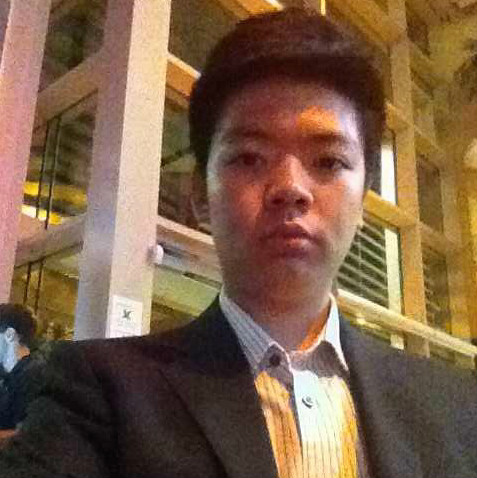
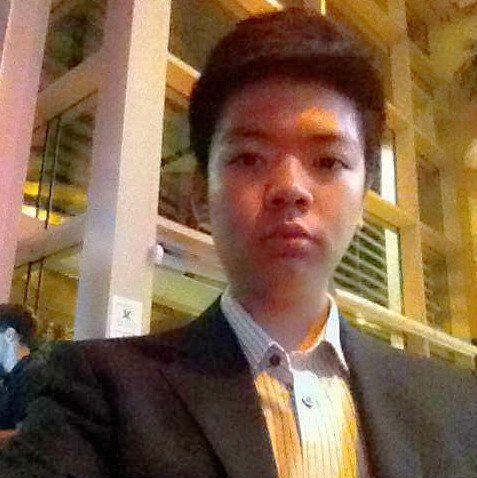
modified hemingxuan.jpg, added steal.py, added ADMIN_LIST in user.rb

diff --git a/fetchDataBundle/steal.py b/fetchDataBundle/steal.py
@@ -1,0 +1,81 @@
+from selenium import webdriver
+from selenium.webdriver.common.keys import Keys
+import time
+import sys,re,os
+import urllib2
+from bs4 import BeautifulSoup
+
+def fetchBook (school, fetch_wait_time = 1):
+  driver = webdriver.Chrome('/Users/a67/bin/chromedriver')
+  driver.get("https://www.postyourbook.com/" + str(school))
+
+  while (True):
+    #Wait for the data to be fetched and displayed
+    time.sleep(fetch_wait_time)
+
+    # Get booknames
+    booknames = driver.find_elements_by_xpath("//h3/a[@class='postingitem']")
+    for bookname in booknames:
+      source_code = bookname.get_attribute("innerHTML")
+      # print source_code
+
+    # Get authors
+    authors = driver.find_elements_by_class_name("p-authors")
+    for author in authors:
+      source_code = author.get_attribute("innerHTML").strip().split(':&nbsp;')[1]
+      # print source_code
+
+    # Get ISBN10 and ISBN13
+    isbns = driver.find_elements_by_xpath("//div[@class='post-desc']/span")
+    ISBN10_arr = []
+    ISBN13_arr = []
+    for isbn in isbns:
+      source_code = isbn.get_attribute("innerHTML").strip().split(":&nbsp;")
+      if source_code[0] == str("ISBN10"):
+        ISBN10_arr.append(source_code[1])
+      elif source_code[0] == str("ISBN13"):
+        ISBN13_arr.append(source_code[1])
+      else:
+        print "ISBN fetch error"
+    # for i in ISBN10_arr:
+    #   print i
+    # for i in ISBN13_arr:
+    #   print i
+
+    # Get number of sellers
+    seller_numbers = driver.find_elements_by_xpath("//span[@class='owner']/span")
+    for seller_number in seller_numbers:
+      source_code = seller_number.get_attribute("innerHTML").strip().split("&nbsp")[0]
+      #print source_code
+
+    # Get most recent date of posting
+    most_recent_dates = driver.find_elemenqts_by_xpath("//span[@class='clock']/span")
+    for most_recent_date in most_recent_dates:
+      source_code = most_recent_date.get_attribute("innerHTML").strip()
+      #print source_code
+
+    # Get student's lowest posting price
+    student_lowest_prices = driver.find_elements_by_class_name("post-price")
+    for student_lowest_price in student_lowest_prices:
+      source_code = student_lowest_price.get_attribute("innerHTML").split("from")[1].strip()
+      print source_code
+
+    # 
+
+    # Wait for the "next page" button to show up. Solves ElementNotVisibleException
+    time.sleep(fetch_wait_time)
+
+    # Click on the "next page" button
+    driver.find_element_by_xpath("//div[@class='tabcontrol postingouter']/div/div/a[@class='rightalign nbtn']").click()
+    
+
+if __name__=='__main__':
+  fetchBook("ucsd", 1)
+# 1. User specify object_url
+# 2. Program goes to url
+# 3. Program fetches the first book results shown on page
+#   - Results contain: 
+#   - Fetched results are stored as ()
+# 4. Program click on "->" button
+# 5. Program continues from step 3, until "->" is not clickable
+# 6. 

diff --git a/app/models/ability.rb b/app/models/ability.rb
@@ -2,9 +2,11 @@ class Ability
   include CanCan::Ability
 
   def initialize(user)
-    if user
+    if user && user.admin?
       can :access, :rails_admin   # grant access to rails_admin
       can :dashboard              # grant access to the dashboard
+      can :read, :all
+      can :manage, :all
     end
     # Define abilities for the passed in user here. For example:
     #

diff --git a/config/initializers/rails_admin.rb b/config/initializers/rails_admin.rb
@@ -9,7 +9,10 @@ RailsAdmin.config do |config|
   # config.current_user_method(&:current_user)
 
   ## == Cancan ==
-  config.authorize_with :cancan
+  RailsAdmin.config do |config|
+    config.authorize_with :cancan
+    config.current_user_method &:current_user
+  end
 
   ## == PaperTrail ==
   # config.audit_with :paper_trail, 'User', 'PaperTrail::Version' # PaperTrail >= 3.0.0

diff --git a/app/models/user.rb b/app/models/user.rb
@@ -6,4 +6,9 @@ class User < ActiveRecord::Base
   belongs_to :school
   has_many :bookprices
   has_many :books, :through=> :bookprices
+  ADMIN_LIST = ["z2tao@ucsd.edu", "nac001@ucsd.edu", "sil024@ucsd.edu"]
+
+  def admin?
+    User::ADMIN_LIST.include? self.email
+  end
 end
